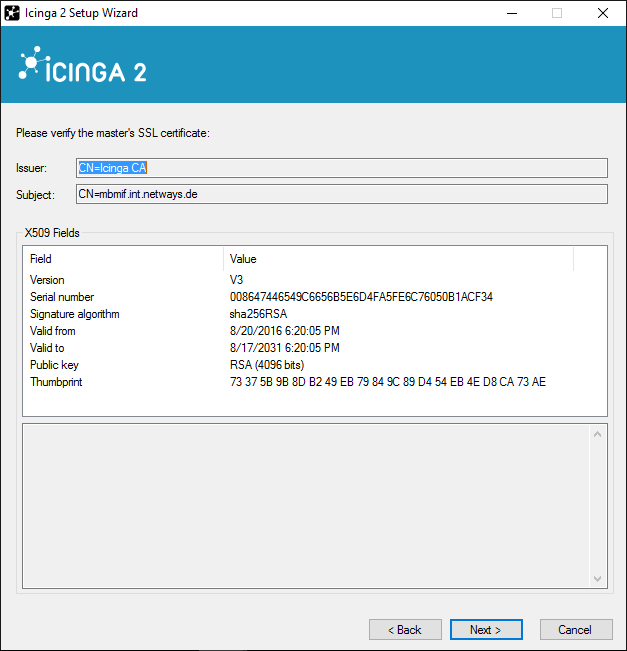
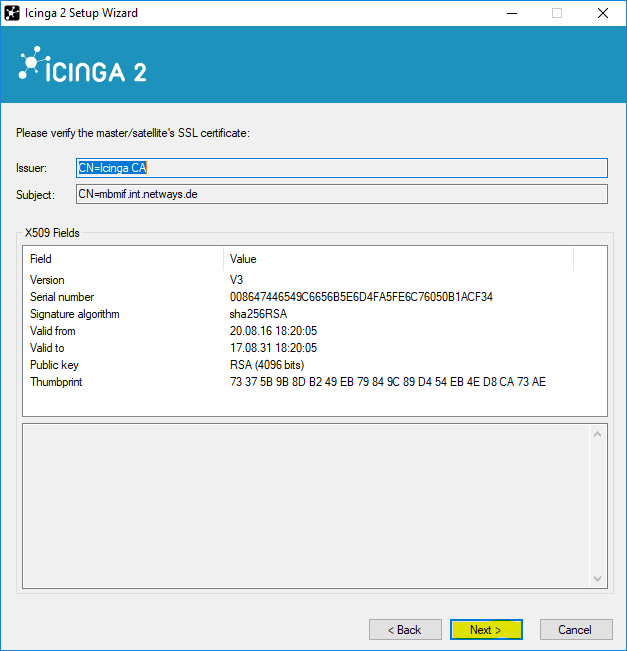
Update documentation for Windows Wizard and On-Demand signing support
refs #5681

diff --git a/doc/06-distributed-monitoring.md b/doc/06-distributed-monitoring.md
@@ -386,7 +386,7 @@ existing master node setup. If you haven't done so already, please [run the mast
 Icinga 2 on the master node must be running and accepting connections on port `5665`.
 
 
-### Client/Satellite Linux Setup <a id="distributed-monitoring-setup-client-linux"></a>
+### Client/Satellite Setup on Linux <a id="distributed-monitoring-setup-client-linux"></a>
 
 Please ensure that you've run all the steps mentioned in the [client/satellite section](06-distributed-monitoring.md#distributed-monitoring-setup-satellite-client).
 
@@ -583,21 +583,21 @@ You can verify that the certificate files are stored in the `/var/lib/icinga2/ce
 > signing requests and responses might need some minutes to fully update the client certificates.
 >
 > If you have chosen to use [On-Demand CSR Signing](06-distributed-monitoring.md#distributed-monitoring-setup-on-demand-csr-signing)
-> certificates need to be signed on the master first.
+> certificates need to be signed on the master first. Ticket-less setups require at least Icinga 2 v2.8+ on all involved instances.
 
-Now that you've successfully installed a satellite/client, please proceed to
+Now that you've successfully installed a Linux/Unix satellite/client instance, please proceed to
 the [configuration modes](06-distributed-monitoring.md#distributed-monitoring-configuration-modes).
 
 
 
-### Client/Satellite Windows Setup <a id="distributed-monitoring-setup-client-windows"></a>
+### Client Setup on Windows <a id="distributed-monitoring-setup-client-windows"></a>
 
 Download the MSI-Installer package from [https://packages.icinga.com/windows/](https://packages.icinga.com/windows/).
 
 Requirements:
 
 * Windows Vista/Server 2008 or higher
-* [Microsoft .NET Framework 2.0](https://www.microsoft.com/de-de/download/details.aspx?id=1639)
+* [Microsoft .NET Framework 2.0](https://www.microsoft.com/de-de/download/details.aspx?id=1639) for the setup wizard
 
 The installer package includes the [NSClient++](https://www.nsclient.org/) package
 so that Icinga 2 can use its built-in plugins. You can find more details in
@@ -605,6 +605,10 @@ so that Icinga 2 can use its built-in plugins. You can find more details in
 The Windows package also installs native [monitoring plugin binaries](06-distributed-monitoring.md#distributed-monitoring-windows-plugins)
 to get you started more easily.
 
+> **Note**
+>
+> Please note that Icinga 2 was designed to run as light-weight client on Windows.
+> There is no support for satellite instances.
 
 #### Windows Client Setup Start <a id="distributed-monitoring-setup-client-windows-start"></a>
 
@@ -616,16 +620,22 @@ Run the MSI-Installer package and follow the instructions shown in the screensho
 ![Icinga 2 Windows Setup](images/distributed-monitoring/icinga2_windows_setup_installer_04.png)
 ![Icinga 2 Windows Setup](images/distributed-monitoring/icinga2_windows_setup_installer_05.png)
 
-The graphical installer will offer to run the Icinga 2 setup wizard after the installation.
-You can also manually run the Icinga 2 setup wizard from the Start menu.
+The graphical installer offers to run the Icinga 2 setup wizard after the installation. Select
+the check box to proceed.
 
-On a fresh installation the setup wizard will guide you through the initial configuration and offer to use CSR auto-signing for generating the SSL certificate.
-You'll need the following configuration details:
+> **Tip**
+>
+> You can also run the Icinga 2 setup wizard from the Start menu later.
+
+On a fresh installation the setup wizard guides you through the initial configuration.
+It also provides a mechanism to send a certificate request to the [CSR signing master](distributed-monitoring-setup-sign-certificates-master).
+
+The following configuration details are required:
 
   Parameter           | Description
   --------------------|--------------------
-  Common name (CN)    | **Required.** By convention this should be the host's FQDN. Defaults to the FQDN.
-  Request ticket      | **Required.** Paste the previously generated [ticket number](06-distributed-monitoring.md#distributed-monitoring-setup-csr-auto-signing).
+  Instance name       | **Required.** By convention this should be the host's FQDN. Defaults to the FQDN.
+  Setup ticket        | **Optional.** Paste the previously generated [ticket number](06-distributed-monitoring.md#distributed-monitoring-setup-csr-auto-signing). If left blank, the certificate request must be [signed on the master node](06-distributed-monitoring.md#distributed-monitoring-setup-on-demand-csr-signing).
 
 Fill in the required information and click `Add` to add a new master connection.
 
@@ -633,31 +643,33 @@ Fill in the required information and click `Add` to add a new master connection.
 
 Add the following details:
 
-  Parameter            | Description
-  ---------------------|--------------------
-  Instance name        | **Required.** The master endpoint name.
-  Master endpoint host | **Required if the the client needs to connect to the master.** The master's IP address or FQDN. This information is included in the `Endpoint` object configuration in the `zones.conf` file.
-  Master endpoint port | **Optional if the the client needs to connect to the master.** The master's listening port. This information is included in the `Endpoint` object configuration.
+  Parameter                      | Description
+  -------------------------------|-------------------------------
+  Instance name                  | **Required.** The master/satellite endpoint name where this client is a direct child of.
+  Master/Satellite endpoint host | **Required.** The master or satellite's IP address or FQDN. This information is included in the `Endpoint` object configuration in the `zones.conf` file.
+  Master/Satellite endpoint port | **Optional.** The master or satellite's listening port. This information is included in the `Endpoint` object configuration.
 
 ![Icinga 2 Windows Setup](images/distributed-monitoring/icinga2_windows_setup_wizard_02.png)
 
-Optionally, you can enable the following settings:
+Optionally enable the following settings:
 
-  Parameter           | Description
-  --------------------|--------------------
-  Accept config       | **Optional.** Whether this node accepts configuration sync from the master node (required for [config sync mode](06-distributed-monitoring.md#distributed-monitoring-top-down-config-sync)). For [security reasons](06-distributed-monitoring.md#distributed-monitoring-security) this is disabled by default.
-  Accept commands     | **Optional.** Whether this node accepts command execution messages from the master node (required for [command endpoint mode](06-distributed-monitoring.md#distributed-monitoring-top-down-command-endpoint)). For [security reasons](06-distributed-monitoring.md#distributed-monitoring-security) this is disabled by default.
-  Install NSClient++  | **Optional.** The Windows installer bundles the NSClient++ installer for additional [plugin checks](06-distributed-monitoring.md#distributed-monitoring-windows-nscp).
+  Parameter                         | Description
+  ----------------------------------|----------------------------------
+  Accept config                     | **Optional.** Whether this node accepts configuration sync from the master node (required for [config sync mode](06-distributed-monitoring.md#distributed-monitoring-top-down-config-sync)). For [security reasons](06-distributed-monitoring.md#distributed-monitoring-security) this is disabled by default.
+  Accept commands                   | **Optional.** Whether this node accepts command execution messages from the master node (required for [command endpoint mode](06-distributed-monitoring.md#distributed-monitoring-top-down-command-endpoint)). For [security reasons](06-distributed-monitoring.md#distributed-monitoring-security) this is disabled by default.
+  Run Icinga 2 service as this user | **Optional.** Specify a different Windows user. This defaults to `NT AUTHORITY\Network Service` and is required for more privileged service checks.
+  Install NSClient++                | **Optional.** The Windows installer bundles the NSClient++ installer for additional [plugin checks](06-distributed-monitoring.md#distributed-monitoring-windows-nscp).
 
 ![Icinga 2 Windows Setup](images/distributed-monitoring/icinga2_windows_setup_wizard_03.png)
 
-The next step allows you to verify the CA presented by the master.
+Verify the certificate from the master/satellite instance where this node should connect to.
 
 ![Icinga 2 Windows Setup](images/distributed-monitoring/icinga2_windows_setup_wizard_04.png)
 
+
 #### Bundled NSClient++ Setup <a id="distributed-monitoring-setup-client-windows-nsclient"></a>
 
-If you have chosen to install/update the NSClient++ package, the Icinga 2 setup wizard will ask
+If you have chosen to install/update the NSClient++ package, the Icinga 2 setup wizard asks
 you to do so.
 
 ![Icinga 2 Windows Setup NSClient++](images/distributed-monitoring/icinga2_windows_setup_wizard_05_nsclient_01.png)
@@ -675,7 +687,7 @@ NSClient++ does not install a sample configuration by default. Change this as sh
 ![Icinga 2 Windows Setup NSClient++](images/distributed-monitoring/icinga2_windows_setup_wizard_05_nsclient_04.png)
 
 Generate a secure password and enable the web server module. **Note**: The webserver module is
-available starting with NSClient++ 0.5.0. Icinga 2 v2.6+ including this version is required.
+available starting with NSClient++ 0.5.0. Icinga 2 v2.6+ is required which includes this version.
 
 ![Icinga 2 Windows Setup NSClient++](images/distributed-monitoring/icinga2_windows_setup_wizard_05_nsclient_05.png)
 
@@ -689,25 +701,37 @@ configuration file.
 
 ![Icinga 2 Windows Setup NSClient++](images/distributed-monitoring/icinga2_windows_setup_wizard_05_nsclient_07.png)
 
-The NSClient++ REST API can be used to query metrics. Future Icinga 2 versions will add
-more integrations. Additional details can be found in this [blog post](https://www.icinga.com/2016/09/16/nsclient-0-5-0-rest-api-and-icinga-2-integration/).
+The NSClient++ REST API can be used to query metrics. [check_nscp_api](06-distributed-monitoring.md#distributed-monitoring-windows-nscp-check-api)
+uses this transport method.
+
 
 #### Finish Windows Client Setup <a id="distributed-monitoring-setup-client-windows-finish"></a>
 
-Finish the setup wizard.
+Finish the Windows setup wizard.
 
-![Icinga 2 Windows Setup](images/distributed-monitoring/icinga2_windows_setup_wizard_06.png)
+![Icinga 2 Windows Setup](images/distributed-monitoring/icinga2_windows_setup_wizard_06_finish_with_ticket.png)
 
-After the installation and configuration Icinga 2 is automatically started as a Windows service.
+If you did not provide a setup ticket, you need to sign the certificate request on the master.
+The setup wizards tells you to do so. The Icinga 2 service is running at this point already
+and will automatically receive and update a signed client certificate.
+
+> **Note**
+>
+> Ticket-less setups require at least Icinga 2 v2.8+ on all involved instances.
+
+
+![Icinga 2 Windows Setup](images/distributed-monitoring/icinga2_windows_setup_wizard_06_finish_no_ticket.png)
+
+Icinga 2 is automatically started as a Windows service.
 
 ![Icinga 2 Windows Setup](images/distributed-monitoring/icinga2_windows_running_service.png)
 
 The Icinga 2 configuration is stored inside the `C:\ProgramData\icinga2` directory.
-If you click `Examine Config` in the setup wizard, it will open a new Explorer window.
+Click `Examine Config` in the setup wizard to open a new Explorer window.
 
 ![Icinga 2 Windows Setup](images/distributed-monitoring/icinga2_windows_setup_wizard_examine_config.png)
 
-The configuration files can be modified with your favorite editor.
+The configuration files can be modified with your favorite editor e.g. Notepad.
 
 In order to use the [top down](06-distributed-monitoring.md#distributed-monitoring-top-down) client
 configuration prepare the following steps.
@@ -720,7 +744,7 @@ the `zones.conf` file in your preferred editor. Add the following lines if not e
       global = true
     }
 
-Note: Packages >= 2.7 provide this configuration by default.
+Note: Packages >= 2.8 provide this configuration by default.
 
 You don't need any local configuration on the client except for
 CheckCommand definitions which can be synced using the global zone
@@ -746,10 +770,14 @@ and restart the `icinga2` service. Alternatively, you can use the `net {start,st
 
 ![Icinga 2 Windows Service Start/Stop](images/distributed-monitoring/icinga2_windows_cmd_admin_net_start_stop.png)
 
-Now that you've successfully installed a satellite/client, please proceed to
+Now that you've successfully installed a Windows client, please proceed to
 the [detailed configuration modes](06-distributed-monitoring.md#distributed-monitoring-configuration-modes).
 
-
+> **Note**
+>
+> The certificate location changed in v2.8 to `%ProgramData%\var\lib\icinga2\certs`.
+> Please read the [upgrading chapter](16-upgrading-icinga-2.md#upgrading-to-2-8-certificate-paths)
+> for more details.
 
 ## Configuration Modes <a id="distributed-monitoring-configuration-modes"></a>
 
@@ -853,7 +881,7 @@ for syncing check commands later:
       global = true
     }
 
-Note: Packages >= 2.7 provide this configuration by default.
+Note: Packages >= 2.8 provide this configuration by default.
 
 You don't need any local configuration on the client except for
 CheckCommand definitions which can be synced using the global zone
@@ -1795,7 +1823,7 @@ the global configuration files:
       global = true
     }
 
-Note: Packages >= 2.7 provide this configuration by default.
+Note: Packages >= 2.8 provide this configuration by default.
 
 Similar to the zone configuration sync you'll need to create a new directory in
 `/etc/icinga2/zones.d`:
@@ -2562,7 +2590,7 @@ Add an additional global zone. Please note the `>>` append mode.
     }
     EOF
 
-Note: Packages >= 2.7 provide this configuration by default.
+Note: Packages >= 2.8 provide this configuration by default.
 
 If this client node is configured as [remote command endpoint execution](06-distributed-monitoring.md#distributed-monitoring-top-down-command-endpoint)
 you can safely disable the `checker` feature. The `node setup` CLI command already disabled the `notification` feature.

diff --git a/CONTRIBUTING.md b/CONTRIBUTING.md
@@ -258,14 +258,14 @@ You can help test-drive the latest Icinga 2 snapshot packages inside the
 Icinga 2 is written in C++ and uses the Boost libraries. We are also using the C++11 standard where applicable (please
 note the minimum required compiler versions in the [INSTALL.md](INSTALL.md) file.
 
-Icinga 2 can be built on Linux/Unix and Windows clients. In order to develop patches for Icinga 2,
+Icinga 2 can be built on Linux/Unix nodes and Windows clients. In order to develop patches for Icinga 2,
 you should prepare your own local build environment and know how to work with C++.
 
 More tips:
 
-* Requirements and source code installation is explained inside the [INSTALL.md](INSTALL.md) file.
+* Requirements and source code installation for Linux/Unix is explained inside the [INSTALL.md](INSTALL.md) file.
 * Debug requirements and GDB instructions can be found in the [documentation](https://github.com/Icinga/icinga2/blob/master/doc/20-development.md).
-* If you are planning to debug a Windows client, setup a Windows environment with [Visual Studio](https://www.visualstudio.com/vs/community/). An example can be found in [this blogpost](https://blog.netways.de/2015/08/24/developing-icinga-2-on-windows-10-using-visual-studio-2015/).
+* If you are planning to develop and debug the Windows client, setup a Windows environment with [Visual Studio](https://www.visualstudio.com/vs/community/). An example can be found in [this blogpost](https://blog.netways.de/2015/08/24/developing-icinga-2-on-windows-10-using-visual-studio-2015/).
 
 ## <a id="contributing-patches-documentation"></a> Documentation Patches
 
@@ -403,7 +403,7 @@ Edit the documentation file in the `doc/` directory. More details on documentati
 updates can be found [here](CONTRIBUTING.md#contributing-documentation).
 
 ```
-vim doc/7-icinga-template-library.md
+vim doc/10-icinga-template-library.md
 ```
 
 The CheckCommand documentation should be located in the same chapter

diff --git a/doc/16-upgrading-icinga-2.md b/doc/16-upgrading-icinga-2.md
@@ -108,7 +108,6 @@ The node CLI command does not provide `list` or `update-config` anymore.
 > The old migration guide can be found on [GitHub](https://github.com/Icinga/icinga2/blob/v2.7.0/doc/06-distributed-monitoring.md#bottom-up-migration-to-top-down-).
 
 The clients don't need to have a local `conf.d` directory included.
-The setup wizards for Linux and Windows attempt to disable this by default.
 
 Icinga 2 continues to run with the generated and imported configuration.
 You are advised to [migrate](https://github.com/Icinga/icinga2/issues/4798)
